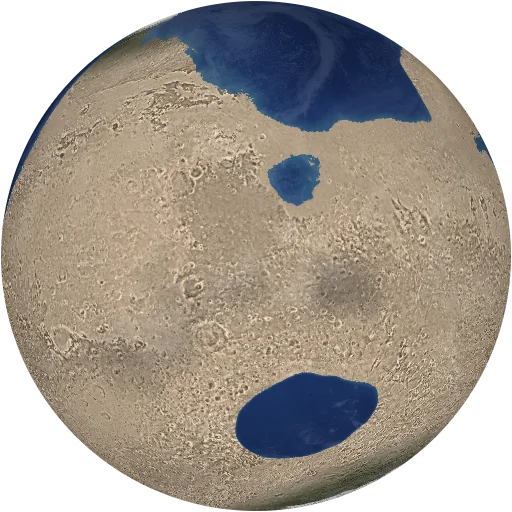
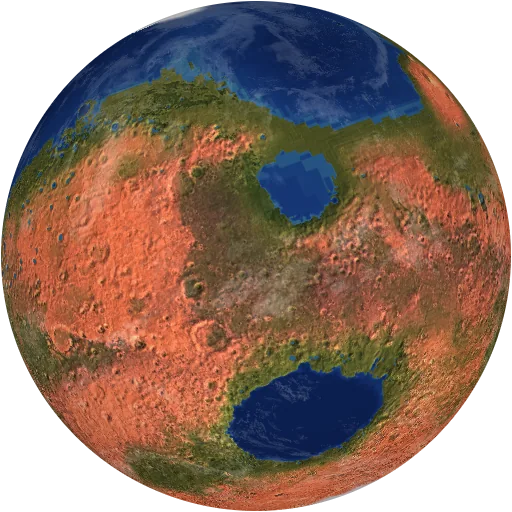
Terraformed Mars looks like Mars: red ground, green lowlands, real seas
The generic arid recipe painted Mars in Earth's desert palette (tan, not
red) and kept it too dry for anything to grow, and Tharsis came out as a
grey snowfield because it is the highest ground. Mars now has its own
terraform: its own rust and ochre albedo stays the ground, with MOLA
hillshade; the northern lowlands, Hellas and Argyre flood along the real
elevation; Valles Marineris and the big crater floors hold lakes;
olive-to-green vegetation spreads over the wet lowlands, coasts and
Mars's own dark regions and thins out on the dry plateaus; snow only on
the caps and the tops of the volcanoes.

Regenerated: globes/mars_tf.webp, surfaces/mars_tf.webp, surfaces/hi/
mars_tf.webp (same sizes). Art versions bumped, so the watch re-fetches.

diff --git a/src/render/artVersion.ts b/src/render/artVersion.ts
@@ -11,14 +11,14 @@
 // After regenerating art: npm run art:version. A test fails until you do.
 // ============================================================
 
-export const ART_VERSION = '90878883cd11';
+export const ART_VERSION = 'b5304bf51358';
 
 /** The watch and widget art version: the world art plus the hull designs
  *  and emblem art the server draws them from (scripts/art-hash.js
  *  wearArtHash). It rides inside the ship and planet image keys, so a
  *  watch, which caches each image by its key for good, fetches new art
  *  by itself when this moves. Same npm run art:version, same test. */
-export const WEAR_ART_VERSION = '2d1da280';
+export const WEAR_ART_VERSION = '5f630d9b';
 
 /** A world-art path ('/globes/mars.webp') with the art version attached. */
 export function artUrl(path: string): string {
